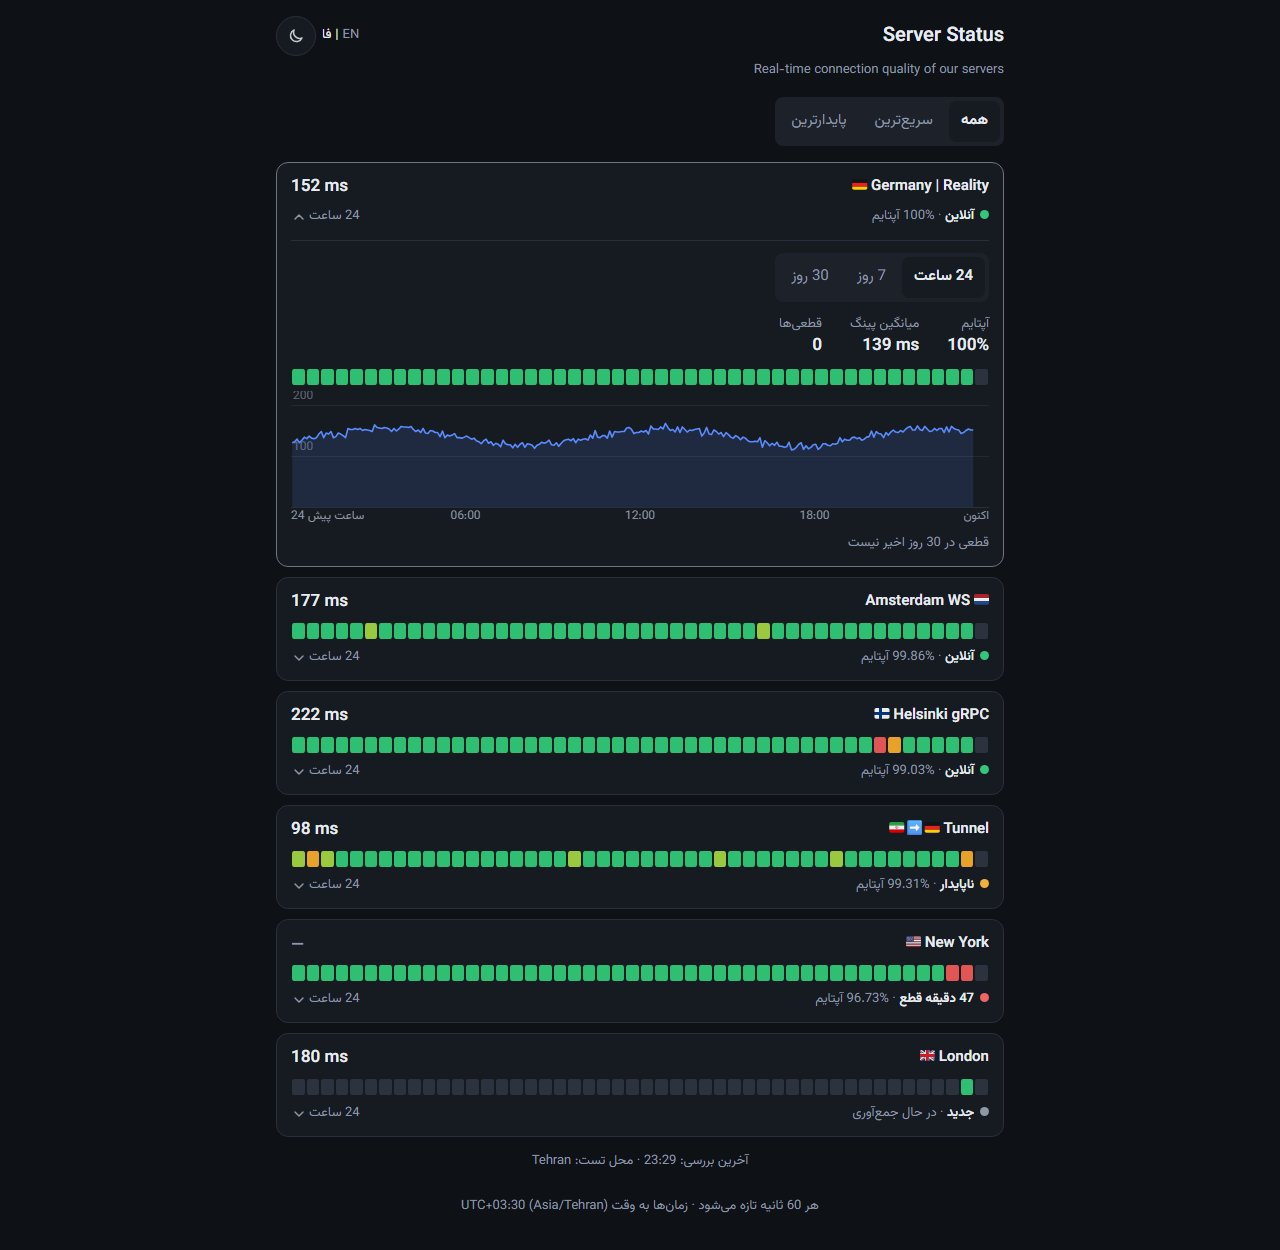
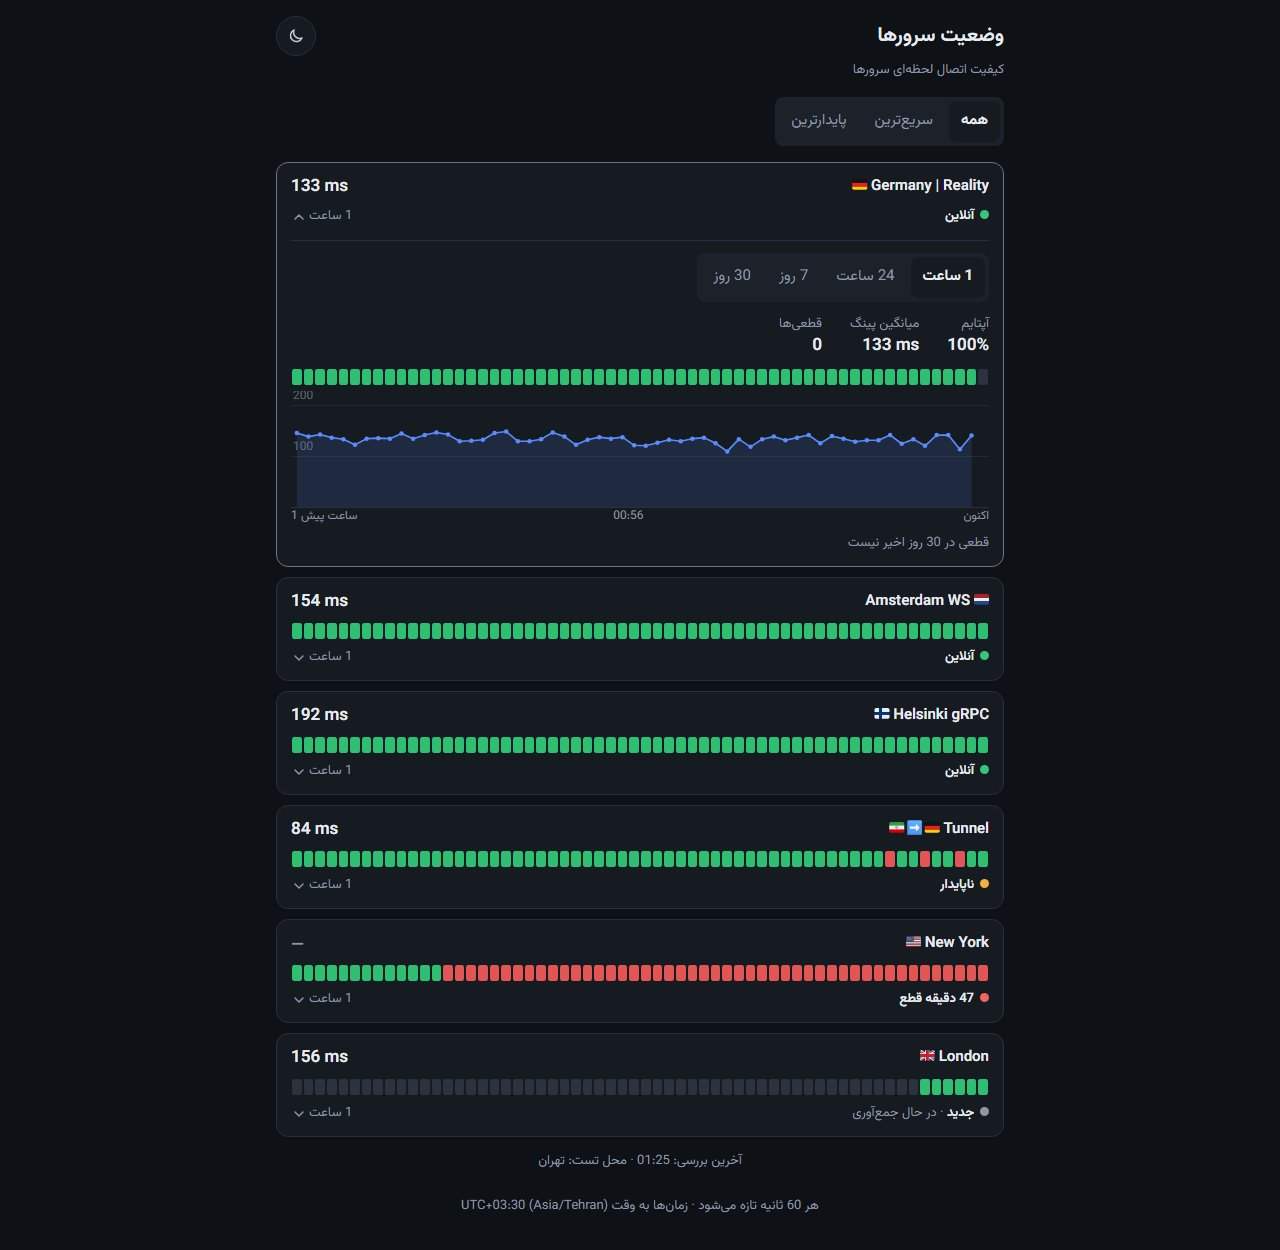
Refresh the docs and screenshots so they match the current status page.
The published images still showed the language switch, the 24h bar, and the uptime percent on a closed card.

diff --git a/app/services/settings.py b/app/services/settings.py
@@ -74,7 +74,7 @@ DEFINITIONS: tuple[SettingDef, ...] = (
     SettingDef("site_description", "Real-time connection quality of our servers", "text", "Site description", "general",
                "One line under the title. Leave empty to hide it."),
     SettingDef("test_location", "", "str", "Test location", "general",
-               "Shown under the status banner. Leave empty to hide it."),
+               "Shown under the server list, next to the last check. Leave empty to hide it."),
     SettingDef("public_language", "en", "choice", "Public page language", "general",
                "Language of the status page.",
                choices=(("en", "English"), ("fa", "Persian"))),

diff --git a/scripts/screenshots.py b/scripts/screenshots.py
@@ -84,6 +84,9 @@ def seed(now: int) -> dict[str, int]:
 
     rng = random.Random(7)
     settings.set("test_location", "Tehran")
+    settings.set("site_title_fa", "وضعیت سرورها")
+    settings.set("site_description_fa", "کیفیت اتصال لحظهای سرورها")
+    settings.set("test_location_fa", "تهران")
     links = "\n".join(f"{link}#{quote(name)}" for name, link, _, _ in SERVERS)
     result = server_service.add_links(links)
     assert not result.errors, result.errors

diff --git a/CHANGELOG.md b/CHANGELOG.md
@@ -5,14 +5,14 @@
 ## 1.4.0
 
 - An open card starts on 1h, and the same control has 24h, 7d, and 30d. On every range the chart point is the same cell as the status bar. A 1h or 24h point's ping is the median of that cell; a 7d or 30d point's ping is the average of that cell. The tooltip shows that cell.
-- A closed card shows the last 60 checks, one cell each, labelled 1h. Online, Degraded, and Down no longer include the uptime percent on that line. The open card and its 24h/7d/30d bars are unchanged.
+- A closed card shows the last 60 checks, one cell each, labelled 1h. Online, Degraded, and Down no longer include the uptime percent on that line.
 - An update no longer crash-loops when `servers.subscription_id` still references a `subscriptions` table that is already gone. The column is removed by rebuilding `servers`, and the servers and their history stay.
 - The public page and the admin panel use Vazirmatn at two weights (400 and 600) and one size scale. Sort tabs no longer recolor ping or uptime.
 - Persian numbers on the public page keep their order. An open card shows the average ping as `260 ms`, and the footer timezone, parentheses included, stays one left-to-right run. Resolving a subscription link no longer blocks the check loop.
 - The public status page can be shown in English or Persian. Only the Public page language setting chooses it. Dates and digits stay as they were.
 - Config domains can be resolved with a primary and a secondary DNS (Settings → Monitoring). Fake answers in `10.10.34.0/24` are dropped. A failed check of a domain server is stored as DNS error, or DNS blocked when only a filtered answer comes back. This needs Xray 25.6.8 or newer.
 - Stored subscriptions are gone. Servers that came from one stay, as ordinary servers. A subscription URL in the add form is fetched once and its configs are saved like any other server; the URL is not kept and is not synced. The server list can make the selected rows public or hidden, or delete them and their history.
-- A mouse click on the 24h bar of a closed card opens the card. A touch on that bar still only moves the tooltip. The bar and chart inside an open card do not close it.
+- A mouse click on the closed card's bar opens the card. A touch on that bar still only moves the tooltip. The bar and chart inside an open card do not close it.
 - "Down for" omits seconds once the outage is a minute or longer (`47m`, not `47m 2s`). Other durations, including "lasted", are unchanged. "Down since" already uses minute-level relative time.
 - An update writes the database backup into a directory owned by the service user. If that backup fails, the update log says so and the stopped database is copied with its WAL files. A failed update restores that copy before the previous version starts.
 

diff --git a/README.md b/README.md
@@ -23,9 +23,9 @@ The public page lists each server’s status, ping, and uptime. The admin panel 
 
 ## Screenshots
 
-| Public page | Server detail | Mobile | Admin dashboard |
+| Public page | Open card | Mobile | Admin dashboard |
 |---|---|---|---|
-| ![Public status page](docs/screenshots/status-page.jpg) | ![Server detail](docs/screenshots/server-detail.jpg) | ![Mobile status page](docs/screenshots/mobile.jpg) | ![Admin dashboard](docs/screenshots/admin-dashboard.jpg) |
+| ![Public status page](docs/screenshots/status-page.jpg) | ![Open card](docs/screenshots/server-detail.jpg) | ![Mobile status page](docs/screenshots/mobile.jpg) | ![Admin dashboard](docs/screenshots/admin-dashboard.jpg) |
 
 ## Requirements
 
@@ -62,7 +62,7 @@ curl -fsSL https://raw.githubusercontent.com/MoonlessWanderer/v2uptime/main/inst
 Offline install: on a machine that has internet, download `v2uptime-<version>-linux-amd64.tar.gz` (or `arm64`) from Releases, copy it to the server, and run:
 
 ```bash
-sudo bash install.sh --from-archive ./v2uptime-1.1.0-linux-amd64.tar.gz
+sudo bash install.sh --from-archive ./v2uptime-1.4.0-linux-amd64.tar.gz
 ```
 
 GitHub Actions (`.github/workflows/release.yml`) builds those archives for each release, with wheels for CPython 3.10–3.13. Apt packages (nginx, certbot, python3-venv) are not inside the archive. In an offline install they still come from an apt mirror (`--apt-mirror`).
@@ -80,7 +80,7 @@ When GitHub is not reachable directly, the download (and pip) can go through a h
 Update from an offline archive:
 
 ```bash
-sudo v2uptime --from-archive ./v2uptime-1.1.0-linux-amd64.tar.gz
+sudo v2uptime --from-archive ./v2uptime-1.4.0-linux-amd64.tar.gz
 ```
 
 Then choose **2) Update**.
